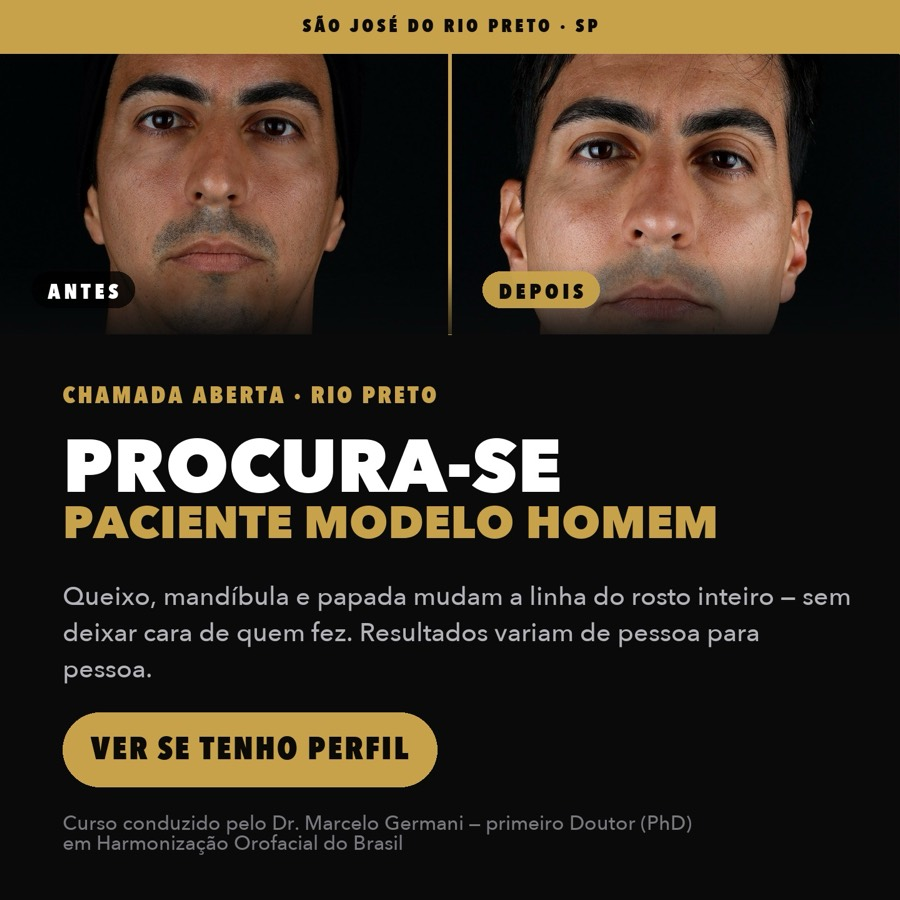
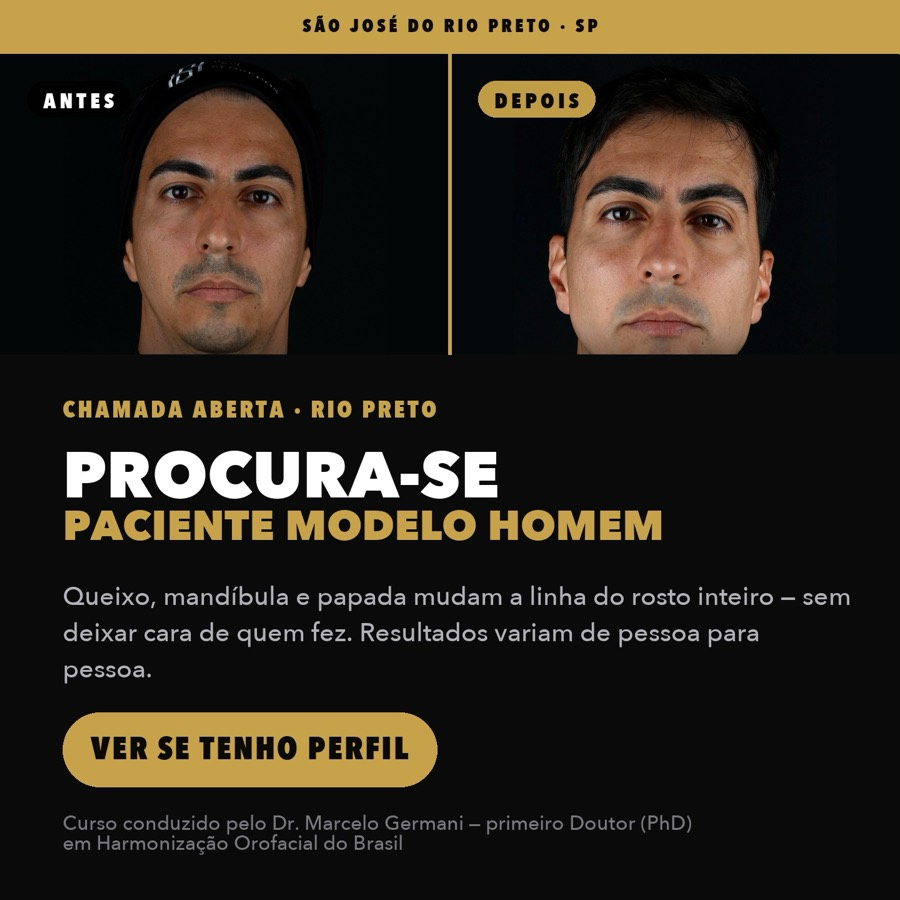
Paciente Modelo: lote novo fica com as 4 aprovadas (02, 06, 07, 08)
- 07 e 08: antes/depois com o rosto inteiro (foto inteira na caixa, sem corte)
- 06: diz de cara que a selecao e de paciente modelo para harmonizacao facial
- fora: 01, 03, 04, 05, 09 e 10

Claude-Session: https://claude.ai/code/session_01FymLU5n7sHLGxX56BeZHBa

Changed region(s): [[0.0311, 0.0311, 0.8089, 0.6222], [0.4978, 0.0311, 0.9022, 0.4044]]

diff --git a/hof/paciente-modelo-criativos/index.html b/hof/paciente-modelo-criativos/index.html
@@ -350,34 +350,14 @@ Chame no WhatsApp para saber se você tem perfil.</pre></details>
 </section>
 
 <section class="bloco">
-  <div class="curso-cab"><div><p class="olho">Para aprovação</p><h2>As dez próximas peças</h2></div></div>
-  <p class="nota-secao">Todas partem do mesmo mecanismo das duas campeãs: <b>convite claro, critério explícito e um passo único a dar</b>. Nenhuma traz data nem valor na arte ou na copy — preço e agenda continuam só na conversa do WhatsApp. <b>As dez já estão montadas</b>, em 1:1 para o feed e 9:16 para stories e reels: é só aprovar e subir.</p>
+  <div class="curso-cab"><div><p class="olho">Para aprovação</p><h2>As próximas peças</h2></div></div>
+  <p class="nota-secao">Todas partem do mesmo mecanismo das duas campeãs: <b>convite claro, critério explícito e um passo único a dar</b>. Nenhuma traz data nem valor na arte ou na copy — preço e agenda continuam só na conversa do WhatsApp. <b>Já estão montadas</b>, em 1:1 para o feed e 9:16 para stories e reels: é só aprovar e subir.</p>
   <div class="props">
-<article class="prop">
-  <a class="prop-img" href="/criativos/hof-paciente-modelo-set26/FEED_01_EDITAL_VAGAS.jpg" target="_blank" rel="noopener">
-    <img src="/criativos/hof-paciente-modelo-set26/FEED_01_EDITAL_VAGAS.jpg" alt="EDITAL COM VAGAS CONTADAS" loading="lazy" width="900" height="900">
-  </a>
-  <div class="prop-top"><span class="t-n">01</span><span class="prop-pub">Amplo 25–60, Rio Preto + 50 km</span></div>
-  <h4>EDITAL COM VAGAS CONTADAS</h4>
-  <p class="prop-base">Nasce do cartaz “Procura-se”, a peça mais barata do lote (R$ 5,86 por conversa).</p>
-  <p class="prop-arte"><b>Arte:</b> Cartaz tipográfico igual ao vencedor, com o número de vagas em corpo gigante no centro e três miniaturas de resultado no rodapé.</p>
-  <pre class="prop-copy">PROCURA-SE: 6 pacientes modelo em São José do Rio Preto.
-
-São 6 vagas porque é esse o número de casos que a turma acompanha do começo ao fim. Cada paciente recebe avaliação, plano individual e procedimento conduzido pelo Dr. Marcelo Germani — primeiro Doutor (PhD) em Harmonização Orofacial do Brasil.
-
-O que pedimos: morar em Rio Preto ou região e aceitar o registro fotográfico do caso.
-
-Quando as vagas forem preenchidas, a seleção fecha. Chame no WhatsApp para entrar.</pre>
-  <p class="prop-meta"><b>Título do anúncio:</b> Entrar na seleção · <b>Descrição:</b> Vagas contadas · Rio Preto</p>
-  <p class="prop-links"><a class="ver" href="/criativos/hof-paciente-modelo-set26/FEED_01_EDITAL_VAGAS.jpg" target="_blank" rel="noopener">Abrir arte 1:1</a> <a class="ver" href="/criativos/hof-paciente-modelo-set26/STORY_01_EDITAL_VAGAS.jpg" target="_blank" rel="noopener">Abrir story 9:16</a></p>
-  <p class="prop-obs">O número de vagas precisa ser o real da turma — confirmar com a clínica antes de subir.</p>
-</article>
-
 <article class="prop">
   <a class="prop-img" href="/criativos/hof-paciente-modelo-set26/FEED_02_QUEM_NAO_PODE.jpg" target="_blank" rel="noopener">
     <img src="/criativos/hof-paciente-modelo-set26/FEED_02_QUEM_NAO_PODE.jpg" alt="QUEM NÃO PODE SER PACIENTE MODELO" loading="lazy" width="900" height="900">
   </a>
-  <div class="prop-top"><span class="t-n">02</span><span class="prop-pub">Amplo 25–60 + remarketing de quem engajou</span></div>
+  <div class="prop-top"><span class="t-n">01</span><span class="prop-pub">Amplo 25–60 + remarketing de quem engajou</span></div>
   <h4>QUEM NÃO PODE SER PACIENTE MODELO</h4>
   <p class="prop-base">Inversão do checklist, a peça de melhor CTR do lote (4,33%).</p>
   <p class="prop-arte"><b>Arte:</b> Mesma diagramação do checklist, com marcas de exclusão em vez de confirmação.</p>
@@ -397,96 +377,10 @@ Chame no WhatsApp e confirme se você tem perfil.</pre>
 </article>
 
 <article class="prop">
-  <a class="prop-img" href="/criativos/hof-paciente-modelo-set26/FEED_03_VAGA_POR_REGIAO.jpg" target="_blank" rel="noopener">
-    <img src="/criativos/hof-paciente-modelo-set26/FEED_03_VAGA_POR_REGIAO.jpg" alt="VAGA POR REGIÃO DO ROSTO" loading="lazy" width="900" height="900">
-  </a>
-  <div class="prop-top"><span class="t-n">03</span><span class="prop-pub">Amplo 28–60, Rio Preto + 50 km</span></div>
-  <h4>VAGA POR REGIÃO DO ROSTO</h4>
-  <p class="prop-base">Cruza o formato de edital com o único antes/depois que gerou conversa (perfil e mandíbula).</p>
-  <p class="prop-arte"><b>Arte:</b> Cartaz dividido em três blocos, um para cada tipo de caso, com um par antes/depois pequeno em cada.</p>
-  <pre class="prop-copy">Procuramos pacientes modelo para três tipos de caso em São José do Rio Preto:
-
-· Contorno de mandíbula e papada
-· Sustentação do terço médio — sulco e canto da boca
-· Proporção de lábios e sorriso
-
-Cada caso é planejado individualmente e conduzido pelo Dr. Marcelo Germani, primeiro Doutor (PhD) em Harmonização Orofacial do Brasil.
-
-Chame no WhatsApp e diga o que te incomoda no seu rosto — a equipe te diz em qual caso você se encaixa. Resultados variam de pessoa para pessoa.</pre>
-  <p class="prop-meta"><b>Título do anúncio:</b> Ver em qual caso me encaixo · <b>Descrição:</b> Três tipos de caso · Rio Preto</p>
-  <p class="prop-links"><a class="ver" href="/criativos/hof-paciente-modelo-set26/FEED_03_VAGA_POR_REGIAO.jpg" target="_blank" rel="noopener">Abrir arte 1:1</a> <a class="ver" href="/criativos/hof-paciente-modelo-set26/STORY_03_VAGA_POR_REGIAO.jpg" target="_blank" rel="noopener">Abrir story 9:16</a></p>
-  <p class="prop-obs">Serve também como leitura de demanda: mostra qual queixa aparece mais na conversa.</p>
-</article>
-
-<article class="prop">
-  <a class="prop-img" href="/criativos/hof-paciente-modelo-set26/FEED_04_QUEM_VAI_MEXER.jpg" target="_blank" rel="noopener">
-    <img src="/criativos/hof-paciente-modelo-set26/FEED_04_QUEM_VAI_MEXER.jpg" alt="“SE É CURSO, QUEM VAI MEXER NO MEU ROSTO?”" loading="lazy" width="900" height="900">
-  </a>
-  <div class="prop-top"><span class="t-n">04</span><span class="prop-pub">Remarketing de engajados + frio 30–55</span></div>
-  <h4>“SE É CURSO, QUEM VAI MEXER NO MEU ROSTO?”</h4>
-  <p class="prop-base">A objeção número um de quem lê “paciente modelo”. O conceito foi desenhado no lote anterior e nunca chegou a rodar.</p>
-  <p class="prop-arte"><b>Arte:</b> Fundo escuro, a pergunta entre aspas em corpo grande, credencial do professor listada abaixo.</p>
-  <pre class="prop-copy">“Se é curso, quem vai mexer no meu rosto?”
-
-Pergunta justa — e a resposta é a razão de existir essa seleção.
-
-Quem conduz é o Dr. Marcelo Germani: primeiro Doutor (PhD) em Harmonização Orofacial do Brasil, palestrante internacional, autor de artigos científicos e do livro Movement.
-
-O plano do seu rosto é feito por ele, e o procedimento acontece com ele conduzindo, do começo ao fim.
-
-Estamos selecionando pacientes modelo em São José do Rio Preto. Chame no WhatsApp para falar com a equipe.</pre>
-  <p class="prop-meta"><b>Título do anúncio:</b> Falar com a equipe · <b>Descrição:</b> Quem conduz o atendimento</p>
-  <p class="prop-links"><a class="ver" href="/criativos/hof-paciente-modelo-set26/FEED_04_QUEM_VAI_MEXER.jpg" target="_blank" rel="noopener">Abrir arte 1:1</a> <a class="ver" href="/criativos/hof-paciente-modelo-set26/STORY_04_QUEM_VAI_MEXER.jpg" target="_blank" rel="noopener">Abrir story 9:16</a></p>
-  <p class="prop-obs">É a peça que sustenta todas as outras — se a objeção não cai, a conversa não avança.</p>
-</article>
-
-<article class="prop">
-  <a class="prop-img" href="/criativos/hof-paciente-modelo-set26/FEED_05_RECEBE_X_PEDIMOS.jpg" target="_blank" rel="noopener">
-    <img src="/criativos/hof-paciente-modelo-set26/FEED_05_RECEBE_X_PEDIMOS.jpg" alt="O QUE VOCÊ RECEBE × O QUE PEDIMOS" loading="lazy" width="900" height="900">
-  </a>
-  <div class="prop-top"><span class="t-n">05</span><span class="prop-pub">Amplo 25–60</span></div>
-  <h4>O QUE VOCÊ RECEBE × O QUE PEDIMOS</h4>
-  <p class="prop-base">O que fez o cartaz funcionar foi ser um contrato claro. Esta peça leva isso ao extremo.</p>
-  <p class="prop-arte"><b>Arte:</b> Duas colunas lado a lado, dourado de um lado, branco do outro.</p>
-  <pre class="prop-copy">Ser paciente modelo é uma troca — e ela é clara desde o começo.
-
-Você recebe: avaliação individual, plano de harmonização feito para o seu rosto e procedimento conduzido pelo Dr. Marcelo Germani, primeiro Doutor (PhD) em Harmonização Orofacial do Brasil.
-
-Pedimos: que você more em Rio Preto ou região, esteja disponível na data do curso prático e aceite o registro fotográfico do caso.
-
-Se a troca faz sentido pra você, chame no WhatsApp.</pre>
-  <p class="prop-meta"><b>Título do anúncio:</b> Quero ser avaliado · <b>Descrição:</b> Como funciona a troca</p>
-  <p class="prop-links"><a class="ver" href="/criativos/hof-paciente-modelo-set26/FEED_05_RECEBE_X_PEDIMOS.jpg" target="_blank" rel="noopener">Abrir arte 1:1</a> <a class="ver" href="/criativos/hof-paciente-modelo-set26/STORY_05_RECEBE_X_PEDIMOS.jpg" target="_blank" rel="noopener">Abrir story 9:16</a></p>
-  <p class="prop-obs">Transparência reduz a desistência entre a conversa e a avaliação.</p>
-</article>
-
-<article class="prop">
-  <a class="prop-img" href="/criativos/hof-paciente-modelo-set26/FEED_06_TRES_PASSOS.jpg" target="_blank" rel="noopener">
-    <img src="/criativos/hof-paciente-modelo-set26/FEED_06_TRES_PASSOS.jpg" alt="A SELEÇÃO EM TRÊS PASSOS" loading="lazy" width="900" height="900">
-  </a>
-  <div class="prop-top"><span class="t-n">06</span><span class="prop-pub">Amplo 25–60 + remarketing de conversa iniciada e não respondida</span></div>
-  <h4>A SELEÇÃO EM TRÊS PASSOS</h4>
-  <p class="prop-base">Tira o atrito de quem não sabe o que acontece depois de chamar no WhatsApp.</p>
-  <p class="prop-arte"><b>Arte:</b> Numeração 1-2-3 em corpo grande, uma linha por etapa.</p>
-  <pre class="prop-copy">Como funciona a seleção de paciente modelo:
-
-1. Você chama no WhatsApp e conta o que te incomoda no seu rosto.
-2. A equipe avalia se o seu caso encaixa nos casos que a turma vai acompanhar.
-3. Encaixando, você recebe a data do atendimento e o plano feito para o seu rosto.
-
-A etapa de avaliação é sem compromisso. O curso prático é conduzido pelo Dr. Marcelo Germani, primeiro Doutor (PhD) em Harmonização Orofacial do Brasil, em São José do Rio Preto.
-
-Chame no WhatsApp para começar pelo passo 1.</pre>
-  <p class="prop-meta"><b>Título do anúncio:</b> Começar pelo passo 1 · <b>Descrição:</b> Avaliação sem compromisso</p>
-  <p class="prop-links"><a class="ver" href="/criativos/hof-paciente-modelo-set26/FEED_06_TRES_PASSOS.jpg" target="_blank" rel="noopener">Abrir arte 1:1</a> <a class="ver" href="/criativos/hof-paciente-modelo-set26/STORY_06_TRES_PASSOS.jpg" target="_blank" rel="noopener">Abrir story 9:16</a></p>
-  <p class="prop-obs">Boa candidata a remarketing de quem abriu conversa e não respondeu.</p>
-</article>
-
-<article class="prop">
   <a class="prop-img" href="/criativos/hof-paciente-modelo-set26/FEED_07_EDITAL_MASCULINO.jpg" target="_blank" rel="noopener">
     <img src="/criativos/hof-paciente-modelo-set26/FEED_07_EDITAL_MASCULINO.jpg" alt="EDITAL MASCULINO" loading="lazy" width="900" height="900">
   </a>
-  <div class="prop-top"><span class="t-n">07</span><span class="prop-pub">Homens 28–55, Rio Preto + 50 km</span></div>
+  <div class="prop-top"><span class="t-n">02</span><span class="prop-pub">Homens 28–55, Rio Preto + 50 km</span></div>
   <h4>EDITAL MASCULINO</h4>
   <p class="prop-base">O antes/depois masculino nunca foi testado de verdade: rodou em conjunto de mulheres. Agora vai no formato que ganhou e no público certo.</p>
   <p class="prop-arte"><b>Arte:</b> Cartaz de edital com antes/depois masculino de perfil, mesma tipografia da peça vencedora.</p>
@@ -499,14 +393,14 @@ O atendimento acontece durante curso prático conduzido pelo Dr. Marcelo Germani
 Chame no WhatsApp e veja se você tem perfil. Resultados variam de pessoa para pessoa.</pre>
   <p class="prop-meta"><b>Título do anúncio:</b> Entrar na seleção · <b>Descrição:</b> Paciente modelo · Rio Preto</p>
   <p class="prop-links"><a class="ver" href="/criativos/hof-paciente-modelo-set26/FEED_07_EDITAL_MASCULINO.jpg" target="_blank" rel="noopener">Abrir arte 1:1</a> <a class="ver" href="/criativos/hof-paciente-modelo-set26/STORY_07_EDITAL_MASCULINO.jpg" target="_blank" rel="noopener">Abrir story 9:16</a></p>
-  <p class="prop-obs">Só vale a leitura se rodar em conjunto exclusivo de homens.</p>
+  <p class="prop-obs">Ajustada: antes e depois com o rosto inteiro, sem corte.</p>
 </article>
 
 <article class="prop">
   <a class="prop-img" href="/criativos/hof-paciente-modelo-set26/FEED_08_EDITAL_45MAIS.jpg" target="_blank" rel="noopener">
     <img src="/criativos/hof-paciente-modelo-set26/FEED_08_EDITAL_45MAIS.jpg" alt="EDITAL 45+" loading="lazy" width="900" height="900">
   </a>
-  <div class="prop-top"><span class="t-n">08</span><span class="prop-pub">Mulheres 45–65, Rio Preto + 50 km</span></div>
+  <div class="prop-top"><span class="t-n">03</span><span class="prop-pub">Mulheres 45–65, Rio Preto + 50 km</span></div>
   <h4>EDITAL 45+</h4>
   <p class="prop-base">Mesmo caso do masculino: a peça 45+ recebeu R$ 6 de mídia dentro de um público de 25 a 65. Nunca teve teste.</p>
   <p class="prop-arte"><b>Arte:</b> Cartaz de edital com antes/depois de paciente acima de 45, faixa etária destacada.</p>
@@ -523,43 +417,27 @@ Chame no WhatsApp e veja se você se encaixa. Resultados variam de pessoa para p
 </article>
 
 <article class="prop">
-  <a class="prop-img" href="/criativos/hof-paciente-modelo-set26/FEED_09_QUATRO_ROSTOS.jpg" target="_blank" rel="noopener">
-    <img src="/criativos/hof-paciente-modelo-set26/FEED_09_QUATRO_ROSTOS.jpg" alt="TRÊS ROSTOS, UM MESMO PROTOCOLO" loading="lazy" width="900" height="900">
+  <a class="prop-img" href="/criativos/hof-paciente-modelo-set26/FEED_06_TRES_PASSOS.jpg" target="_blank" rel="noopener">
+    <img src="/criativos/hof-paciente-modelo-set26/FEED_06_TRES_PASSOS.jpg" alt="PROCURAMOS PACIENTE MODELO · EM TRÊS PASSOS" loading="lazy" width="900" height="900">
   </a>
-  <div class="prop-top"><span class="t-n">09</span><span class="prop-pub">Amplo 25–60 + remarketing</span></div>
-  <h4>TRÊS ROSTOS, UM MESMO PROTOCOLO</h4>
-  <p class="prop-base">Prova real de diversidade: mostra que não é um caso isolado nem um único tipo de rosto — sem depender de depoimento.</p>
-  <p class="prop-arte"><b>Arte:</b> Três pacientes modelo lado a lado (homem, mulher 45+, mulher jovem), com a leitura de que o plano muda, não a técnica da moda.</p>
-  <pre class="prop-copy">Três rostos completamente diferentes. O mesmo protocolo por trás.
+  <div class="prop-top"><span class="t-n">04</span><span class="prop-pub">Amplo 25–60 + remarketing de conversa iniciada e não respondida</span></div>
+  <h4>PROCURAMOS PACIENTE MODELO · EM TRÊS PASSOS</h4>
+  <p class="prop-base">Tira o atrito de quem não sabe o que acontece depois de chamar no WhatsApp — e agora diz de cara o que é a seleção.</p>
+  <p class="prop-arte"><b>Arte:</b> Chamada aberta no topo, o que estamos procurando em destaque e as três etapas numeradas embaixo.</p>
+  <pre class="prop-copy">Estamos procurando paciente modelo para harmonização facial em São José do Rio Preto — sem compromisso na avaliação.
 
-Homem de 35, mulher de 60, mulher de 28: o que muda não é a técnica da moda, é o plano feito para a estrutura de cada rosto.
+Como funciona a seleção:
 
-Todos foram atendidos como pacientes modelo em curso prático de harmonização orofacial em São José do Rio Preto, conduzido pelo Dr. Marcelo Germani — primeiro Doutor (PhD) em HOF do Brasil.
+1. Você chama no WhatsApp e conta o que te incomoda no seu rosto.
+2. A equipe avalia se o seu caso encaixa nos casos que a turma vai acompanhar.
+3. Encaixando, você recebe a data do atendimento e o plano feito para o seu rosto.
 
-Estamos selecionando novos pacientes. Chame no WhatsApp para ser avaliado. Resultados variam de pessoa para pessoa.</pre>
-  <p class="prop-meta"><b>Título do anúncio:</b> Quero ser avaliado · <b>Descrição:</b> Pacientes modelo · Rio Preto</p>
-  <p class="prop-links"><a class="ver" href="/criativos/hof-paciente-modelo-set26/FEED_09_QUATRO_ROSTOS.jpg" target="_blank" rel="noopener">Abrir arte 1:1</a> <a class="ver" href="/criativos/hof-paciente-modelo-set26/STORY_09_QUATRO_ROSTOS.jpg" target="_blank" rel="noopener">Abrir story 9:16</a></p>
-  <p class="prop-obs">O depoimento em vídeo de quem já foi paciente modelo fica pendente: depende de gravação com autorização de uso de imagem e de fala.</p>
-</article>
+O curso prático é conduzido pelo Dr. Marcelo Germani, primeiro Doutor (PhD) em Harmonização Orofacial do Brasil.
 
-<article class="prop">
-  <a class="prop-img" href="/criativos/hof-paciente-modelo-set26/FEED_10_NAO_PRECISA_SABER.jpg" target="_blank" rel="noopener">
-    <img src="/criativos/hof-paciente-modelo-set26/FEED_10_NAO_PRECISA_SABER.jpg" alt="VOCÊ NÃO PRECISA SABER O NOME DO PROCEDIMENTO" loading="lazy" width="900" height="900">
-  </a>
-  <div class="prop-top"><span class="t-n">10</span><span class="prop-pub">Amplo 25–60</span></div>
-  <h4>VOCÊ NÃO PRECISA SABER O NOME DO PROCEDIMENTO</h4>
-  <p class="prop-base">Derruba a barreira de entrada da conversa — o mesmo mecanismo que fez o checklist funcionar: a pessoa entende que se qualifica.</p>
-  <p class="prop-arte"><b>Arte:</b> Tipografia pura, sem foto, com a frase principal ocupando a peça inteira.</p>
-  <pre class="prop-copy">Você não precisa chegar sabendo o nome do procedimento.
-
-Muita gente adia porque acha que precisa saber se o caso é preenchimento, bioestimulador ou toxina. Não precisa. Basta saber o que te incomoda quando você se olha no espelho — o resto é o plano que resolve.
-
-Estamos selecionando pacientes modelo em São José do Rio Preto para o próximo curso prático conduzido pelo Dr. Marcelo Germani, primeiro Doutor (PhD) em Harmonização Orofacial do Brasil.
-
-Chame no WhatsApp e diga só o que te incomoda.</pre>
-  <p class="prop-meta"><b>Título do anúncio:</b> Dizer o que me incomoda · <b>Descrição:</b> Avaliação sem compromisso</p>
-  <p class="prop-links"><a class="ver" href="/criativos/hof-paciente-modelo-set26/FEED_10_NAO_PRECISA_SABER.jpg" target="_blank" rel="noopener">Abrir arte 1:1</a> <a class="ver" href="/criativos/hof-paciente-modelo-set26/STORY_10_NAO_PRECISA_SABER.jpg" target="_blank" rel="noopener">Abrir story 9:16</a></p>
-  <p class="prop-obs">Também é a peça mais barata de produzir: não depende de foto de paciente.</p>
+Chame no WhatsApp para começar pelo passo 1.</pre>
+  <p class="prop-meta"><b>Título do anúncio:</b> Começar pelo passo 1 · <b>Descrição:</b> Avaliação sem compromisso</p>
+  <p class="prop-links"><a class="ver" href="/criativos/hof-paciente-modelo-set26/FEED_06_TRES_PASSOS.jpg" target="_blank" rel="noopener">Abrir arte 1:1</a> <a class="ver" href="/criativos/hof-paciente-modelo-set26/STORY_06_TRES_PASSOS.jpg" target="_blank" rel="noopener">Abrir story 9:16</a></p>
+  <p class="prop-obs">Ajustada: a peça agora diz logo no topo o que é a seleção, em vez de começar pelos passos.</p>
 </article></div>
 </section>
 

diff --git a/hof/paciente-modelo-criativos/_gerador/gerar.py b/hof/paciente-modelo-criativos/_gerador/gerar.py
@@ -154,8 +154,8 @@ HTML = f'''<title>Paciente modelo — criativos</title>
 </section>
 
 <section class="bloco">
-  <div class="curso-cab"><div><p class="olho">Para aprovação</p><h2>As dez próximas peças</h2></div></div>
-  <p class="nota-secao">Todas partem do mesmo mecanismo das duas campeãs: <b>convite claro, critério explícito e um passo único a dar</b>. Nenhuma traz data nem valor na arte ou na copy — preço e agenda continuam só na conversa do WhatsApp. <b>As dez já estão montadas</b>, em 1:1 para o feed e 9:16 para stories e reels: é só aprovar e subir.</p>
+  <div class="curso-cab"><div><p class="olho">Para aprovação</p><h2>As próximas peças</h2></div></div>
+  <p class="nota-secao">Todas partem do mesmo mecanismo das duas campeãs: <b>convite claro, critério explícito e um passo único a dar</b>. Nenhuma traz data nem valor na arte ou na copy — preço e agenda continuam só na conversa do WhatsApp. <b>Já estão montadas</b>, em 1:1 para o feed e 9:16 para stories e reels: é só aprovar e subir.</p>
   <div class="props">{props}</div>
 </section>
 
